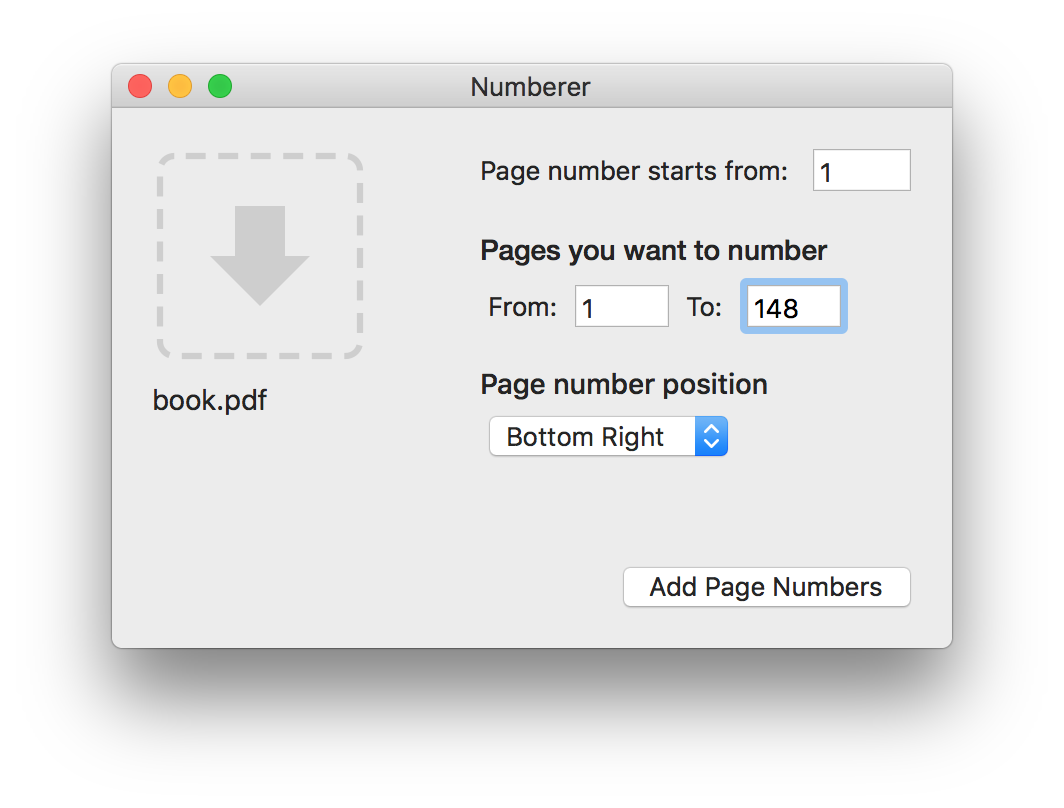
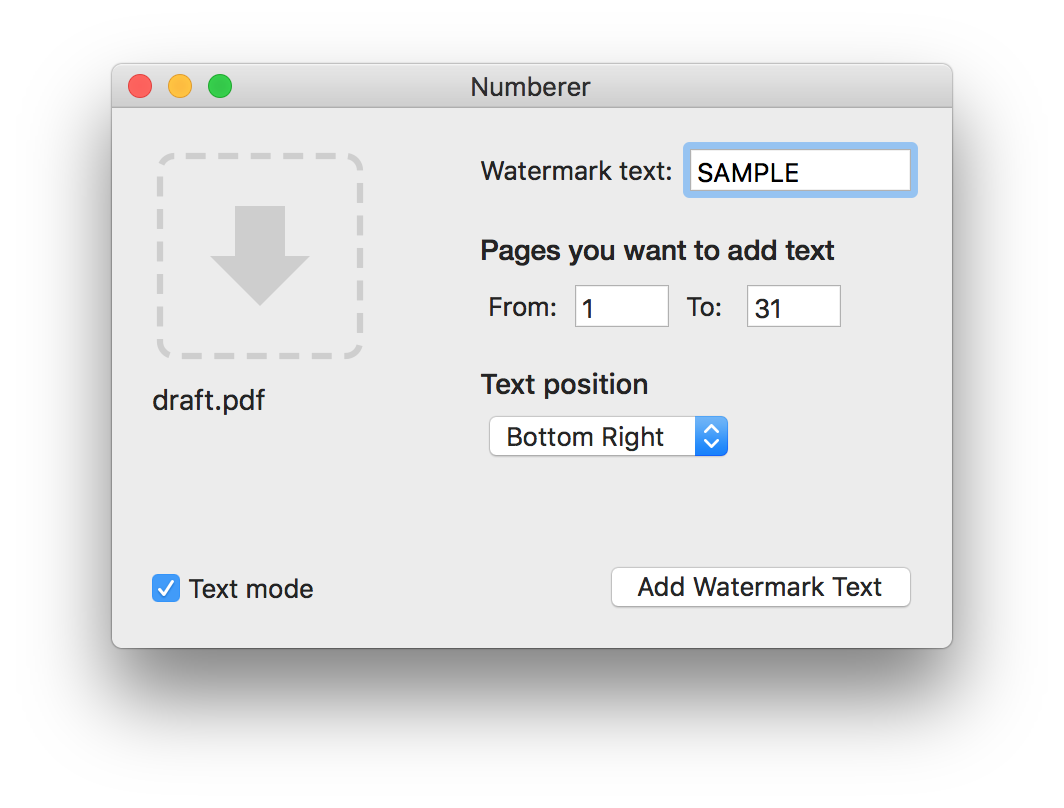
Updated demo video, replaced gumroad with mac app store
Updated demo video, replaced gumroad with mac app store

diff --git a/index.html b/index.html
@@ -20,7 +20,6 @@
 <link rel="icon" type="image/png" href="favicon-16x16.png" sizes="16x16" />
 <link href="https://fonts.googleapis.com/css?family=Open+Sans:300,400" rel="stylesheet">
 <link rel="stylesheet" href="main.css">
-<script src="https://gumroad.com/js/gumroad.js"></script>
 <!-- Global site tag (gtag.js) - Google Analytics -->
 <script async src="https://www.googletagmanager.com/gtag/js?id=UA-49271415-5"></script>
 <script>
@@ -34,12 +33,12 @@
 <body>
   <div class="wrapper">
     <div class="header" style="text-align: center;">
-      <h1>PDF Page Numberer</h1>
-      <span>Add page numbers easily to your PDF</span>
+      <h1>PDF Page Numberer + Text watermark</h1>
+      <span>Add page numbers and text watermark easily to your PDF</span>
       <img src="numberer.png" alt="Numberer app" class="numberer"/>
     </div>
     <div class="action">
-      <a class="cta" href="https://gum.co/pagenumber" target="_blank">Buy now for $5</a>
+      <a href="https://itunes.apple.com/us/app/numberer/id1407001685?ls=1&mt=12" target="_blank"><img srcset="masblack.png 1x, masblack@2x.png 2x" src="masblack.png"alt="Mac App Store download" /></a><br><br>
       <a class="cta2" onclick="revealVideo('video','youtube')">Watch Demo</a>
       <br><br>
       <span>(for macOS 10.12 and above)</span>
@@ -51,7 +50,7 @@
         Close | ✕
       </button>
       <div class="video-container">
-        <iframe id="youtube" width="960" height="540" src="https://www.youtube.com/embed/I0E4_DcOc0U?rel=0&amp;showinfo=0" frameborder="0" allowfullscreen></iframe>
+        <iframe id="youtube" width="960" height="540" src="https://www.youtube.com/embed/4uB3Y46svmw?rel=0&amp;showinfo=0" frameborder="0" allowfullscreen></iframe>
       </div>      
       
     </div>
@@ -60,7 +59,7 @@
     </div>
     <div class="pitch">
       <ul>
-        <li>Add page numbers to PDF file easily</li>
+        <li>Add page numbers and text watermark to PDF file easily</li>
         <li>Your PDF file never leaves your computer, we can't snoop even if we wanted to</li>
         <li>Complete the ebook you have just finished writing using Markdown Editor</li>
         <li>Download and add page numbers immediately</li>
